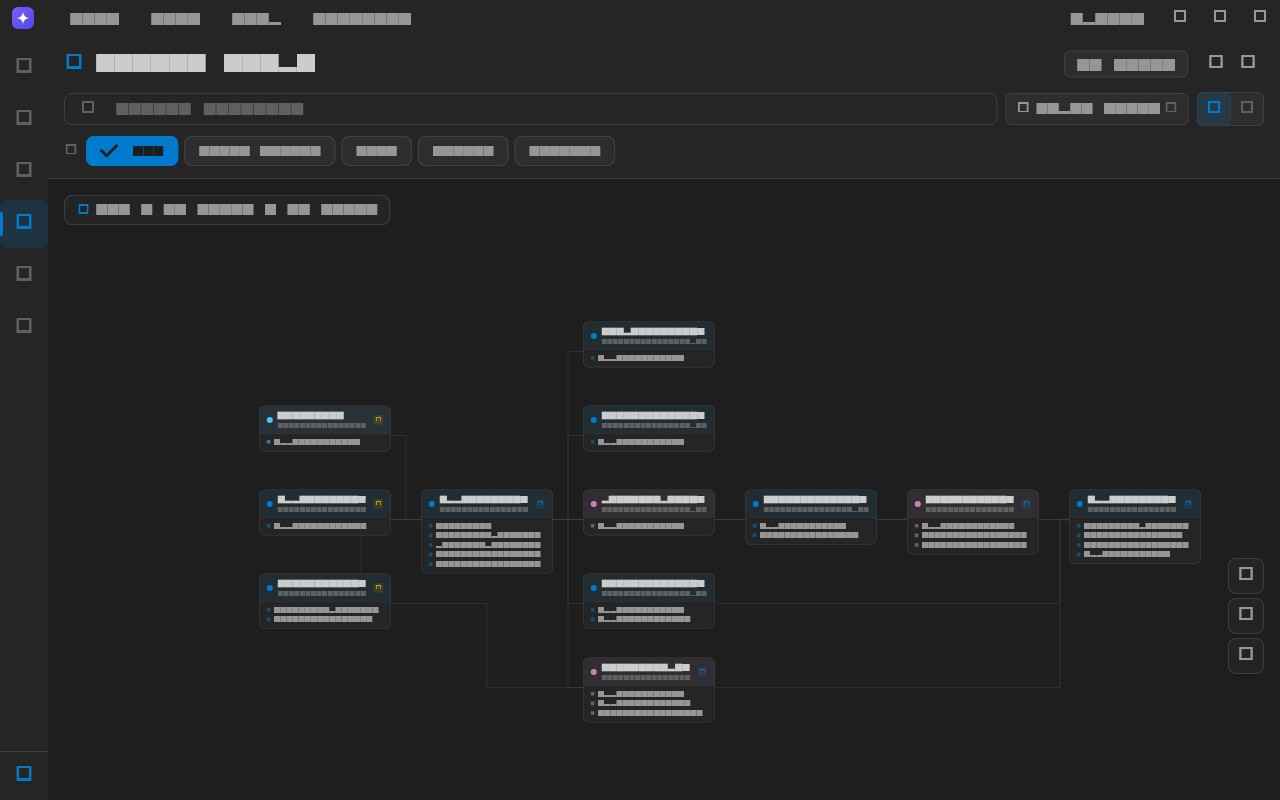
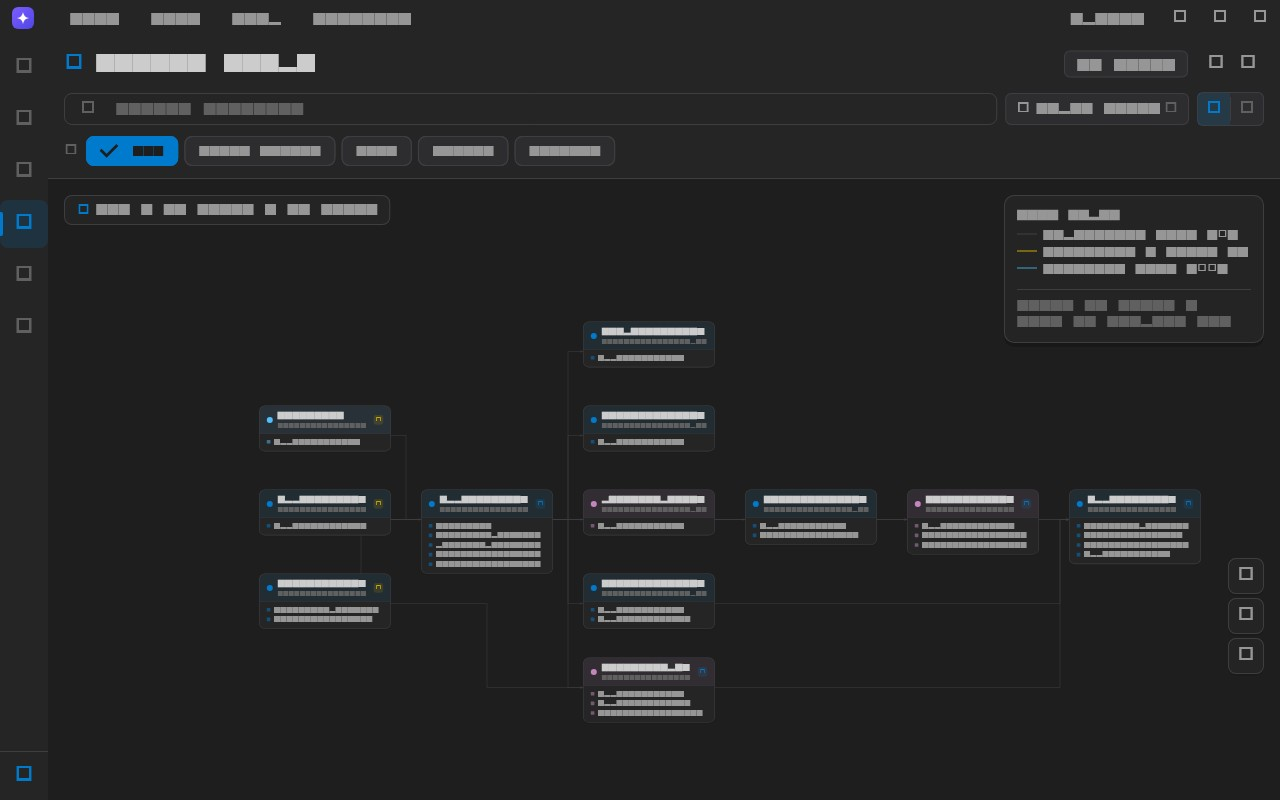
feat: neural mesh — stable info panel, edge legend, cluster-on-select
- Replace flickering badge tooltips (they were dismissed instantly by the
  hover-triggered rebuild) with a stable right-side info panel showing
  node details + an edge-color legend
- Edge colors now explained: grey=dependency flow, yellow=back-edge/cycle,
  blue=vertical link
- Cluster on select: clicking a card animates its connected neighbors into
  a ring around it (dim overlay kept, not too close); clicking away
  restores the original layout; reset cancels cleanly
- Tests: info panel legend present, background tap deselects

Changed region(s): [[0.7812, 0.25, 0.9688, 0.3438], [0.7812, 0.375, 0.9688, 0.4375]]

diff --git a/mobile/lib/features/graph/presentation/screens/graph_screen.dart b/mobile/lib/features/graph/presentation/screens/graph_screen.dart
@@ -39,7 +39,8 @@ class GraphScreen extends ConsumerStatefulWidget {
 
 enum GraphFacet { all, entryPoints, hubs, cycles, modules }
 
-class _GraphScreenState extends ConsumerState<GraphScreen> {
+class _GraphScreenState extends ConsumerState<GraphScreen>
+    with SingleTickerProviderStateMixin {
   bool _indexing = false;
   double _indexProgress = 0.0;
   final Map<String, Offset> _nodePositions = {};
@@ -57,8 +58,89 @@ class _GraphScreenState extends ConsumerState<GraphScreen> {
   Map<String, Rect> _moduleBands = {};
   DateTime? _lastBackgroundTap;
 
+  // Cluster-on-select: when a card is clicked, its connected neighbors glide
+  // into a ring around it so they're all visible together (dim overlay kept).
+  // Clicking away animates everything back to the original layout.
+  Map<String, Offset> _originalPositions = {};
+  Map<String, Offset> _clusterTargets = {};
+  bool _isClustered = false;
+  late final AnimationController _clusterController;
+
+  @override
+  void initState() {
+    super.initState();
+    _clusterController = AnimationController(
+      vsync: this,
+      duration: const Duration(milliseconds: 350),
+    )..addListener(_animateClusterStep);
+  }
+
+  void _animateClusterStep() {
+    final t = Curves.easeInOut.transform(_clusterController.value);
+    if (!_isClustered) {
+      // Animating back to original layout
+      for (final entry in _clusterTargets.entries) {
+        final from = _nodePositions[entry.key];
+        final to = _originalPositions[entry.key];
+        if (from == null || to == null) continue;
+        _nodePositions[entry.key] = Offset.lerp(from, to, t)!;
+      }
+    } else {
+      // Animating toward the ring
+      for (final entry in _clusterTargets.entries) {
+        final from = _originalPositions[entry.key];
+        final to = _clusterTargets[entry.key];
+        if (from == null || to == null) continue;
+        _nodePositions[entry.key] = Offset.lerp(from, to, t)!;
+      }
+    }
+    setState(() {});
+  }
+
+  /// Build a ring of the selected node + its connected neighbors. Targets are
+  /// computed once so re-triggering is smooth.
+  void _buildClusterTargets(String selectedPath, List<Map<String, dynamic>> edges) {
+    final neighbors = <String>{selectedPath};
+    for (final e in edges) {
+      if (e['from'] == selectedPath) neighbors.add(e['to'] as String);
+      if (e['to'] == selectedPath) neighbors.add(e['from'] as String);
+    }
+
+    _originalPositions = Map.of(_nodePositions);
+    final selectedPos = _originalPositions[selectedPath];
+    if (selectedPos == null) return;
+
+    final center = Offset(selectedPos.dx + 110, selectedPos.dy + 40);
+    const radius = 170.0;
+    final ring = neighbors.where((n) => n != selectedPath).toList();
+    _clusterTargets[selectedPath] = selectedPos;
+
+    for (var i = 0; i < ring.length; i++) {
+      final angle = (2 * math.pi * i / ring.length) - math.pi / 2;
+      final target = Offset(
+        center.dx + radius * math.cos(angle) - 110,
+        center.dy + radius * math.sin(angle) - 40,
+      );
+      _clusterTargets[ring[i]] = target;
+    }
+  }
+
+  void _startCluster(String selectedPath, List<Map<String, dynamic>> edges) {
+    if (_isClustered) return;
+    _buildClusterTargets(selectedPath, edges);
+    _isClustered = true;
+    _clusterController.forward(from: 0);
+  }
+
+  void _restoreLayout() {
+    if (!_isClustered) return;
+    _isClustered = false;
+    _clusterController.reverse();
+  }
+
   @override
   void dispose() {
+    _clusterController.dispose();
     _transformController.dispose();
     super.dispose();
   }
@@ -392,6 +474,7 @@ class _GraphScreenState extends ConsumerState<GraphScreen> {
                                           _selectedNode = null;
                                           _hoveredNode = null;
                                         });
+                                        _restoreLayout();
                                       }
                                     },
                                     child: const SizedBox.expand(),
@@ -444,10 +527,13 @@ class _GraphScreenState extends ConsumerState<GraphScreen> {
                                       edges: visibleEdges,
                                       allFiles: visibleFiles,
                                       projectPath: projectState.activeProject?.path ?? '',
-                                      onSelect: () => setState(() {
-                                        _selectedNode = file.path;
-                                        _hoveredNode = null;
-                                      }),
+                                      onSelect: () {
+                                        setState(() {
+                                          _selectedNode = file.path;
+                                          _hoveredNode = null;
+                                        });
+                                        _startCluster(file.path, visibleEdges);
+                                      },
                                        onHover: (hovering) {
                                          setState(() => _hoveredNode = hovering ? file.path : null);
                                        },
@@ -539,6 +625,18 @@ class _GraphScreenState extends ConsumerState<GraphScreen> {
                                 ),
                               ],
                             ),
+                          ),
+                        ),
+                        // Node info + edge legend panel (stable, top-right)
+                        Positioned(
+                          right: 16,
+                          top: 16,
+                          child: _NodeInfoPanel(
+                            node: _activeInfoNode(visibleFiles),
+                            entrySet: entrySet,
+                            hubSet: hubSet,
+                            cycleSet: cycleSet,
+                            connectedCount: _connectedCount(visibleEdges),
                           ),
                         ),
                       ],
@@ -643,6 +741,26 @@ class _GraphScreenState extends ConsumerState<GraphScreen> {
     final sortedKeys = groups.keys.toList()
       ..sort((a, b) => groups[b]!.length.compareTo(groups[a]!.length));
     return {for (final k in sortedKeys) k: groups[k]!};
+  }
+
+  /// The node currently under the cursor, else the selected node.
+  IndexedFile? _activeInfoNode(List<IndexedFile> files) {
+    final path = _hoveredNode ?? _selectedNode;
+    if (path == null) return null;
+    for (final f in files) {
+      if (f.path == path) return f;
+    }
+    return null;
+  }
+
+  int _connectedCount(List<Map<String, dynamic>> edges) {
+    final path = _hoveredNode ?? _selectedNode;
+    if (path == null) return 0;
+    var count = 0;
+    for (final e in edges) {
+      if (e['from'] == path || e['to'] == path) count++;
+    }
+    return count;
   }
 
   String _getFileType(String path) {
@@ -1046,6 +1164,10 @@ class _GraphScreenState extends ConsumerState<GraphScreen> {
   }
 
   void _resetLayout() {
+    _clusterController.stop();
+    _isClustered = false;
+    _originalPositions = {};
+    _clusterTargets = {};
     _transformController.value = Matrix4.identity();
     setState(() {
       _nodePositions.clear();
@@ -1498,17 +1620,136 @@ class _BadgeChip extends StatelessWidget {
       _ => (Icons.circle, AppColors.textMuted, badge),
     };
 
-    return Tooltip(
-      message: tooltip,
-      child: Container(
-        width: 16,
-        height: 16,
-        decoration: BoxDecoration(
-          color: color.withValues(alpha: 0.15),
-          borderRadius: BorderRadius.circular(4),
-        ),
-        child: Icon(icon, size: 10, color: color),
+    // NOTE: no Tooltip here. Tooltips inside a self-rebuilding node tree get
+    // dismissed the moment hover triggers a rebuild (they flash and vanish).
+    // Badge meanings are shown in the stable right-side _NodeInfoPanel instead.
+    return Container(
+      width: 16,
+      height: 16,
+      decoration: BoxDecoration(
+        color: color.withValues(alpha: 0.15),
+        borderRadius: BorderRadius.circular(4),
       ),
+      child: Icon(icon, size: 10, color: color),
+    );
+  }
+}
+
+// ==================== NODE INFO PANEL ====================
+
+class _NodeInfoPanel extends StatelessWidget {
+  final IndexedFile? node;
+  final Set<String> entrySet;
+  final Set<String> hubSet;
+  final Set<String> cycleSet;
+  final int connectedCount;
+
+  const _NodeInfoPanel({
+    required this.node,
+    required this.entrySet,
+    required this.hubSet,
+    required this.cycleSet,
+    required this.connectedCount,
+  });
+
+  @override
+  Widget build(BuildContext context) {
+    final n = node;
+    return Container(
+      width: 260,
+      padding: const EdgeInsets.all(12),
+      decoration: BoxDecoration(
+        color: AppColors.surface.withValues(alpha: 0.95),
+        borderRadius: BorderRadius.circular(10),
+        border: Border.all(color: AppColors.border),
+        boxShadow: [
+          BoxShadow(
+            color: Colors.black.withValues(alpha: 0.2),
+            blurRadius: 12,
+            offset: const Offset(0, 4),
+          ),
+        ],
+      ),
+      child: Column(
+        crossAxisAlignment: CrossAxisAlignment.start,
+        mainAxisSize: MainAxisSize.min,
+        children: [
+          const Text('Edge Types',
+              style: TextStyle(fontSize: 10, fontWeight: FontWeight.w600, color: AppColors.textSecondary)),
+          const SizedBox(height: 6),
+          _legendRow(AppColors.border.withValues(alpha: 0.55), 'Dependency flow (→)'),
+          _legendRow(AppColors.warning.withValues(alpha: 0.5), 'Back-edge / cycle (←)'),
+          _legendRow(AppColors.info.withValues(alpha: 0.4), 'Vertical link (↑↓)'),
+          const SizedBox(height: 10),
+          const Divider(height: 1),
+          const SizedBox(height: 8),
+          if (n == null) ...[
+            const Text('Hover or click a card to inspect it.',
+                style: TextStyle(color: AppColors.textMuted, fontSize: 11)),
+          ] else ...[
+            Text(p.basename(n.path),
+                style: const TextStyle(color: AppColors.textPrimary, fontSize: 13, fontWeight: FontWeight.w600)),
+            Text(p.dirname(n.path),
+                style: const TextStyle(color: AppColors.textMuted, fontSize: 10),
+                maxLines: 1,
+                overflow: TextOverflow.ellipsis),
+            const SizedBox(height: 6),
+            Wrap(
+              spacing: 4,
+              runSpacing: 4,
+              children: [
+                if (n.loc > 0)
+                  _chip('${n.loc} lines', AppColors.textSecondary),
+                if (entrySet.contains(n.path))
+                  _chip('Entry point', AppColors.warning),
+                if (hubSet.contains(n.path))
+                  _chip('Hub', AppColors.primary),
+                if (cycleSet.contains(n.path))
+                  _chip('In cycle', AppColors.error),
+                if (connectedCount > 0)
+                  _chip('$connectedCount links', AppColors.info),
+              ],
+            ),
+          ],
+        ],
+      ),
+    );
+  }
+
+  Widget _legendRow(Color color, String label) {
+    return Padding(
+      padding: const EdgeInsets.only(bottom: 3),
+      child: Row(
+        mainAxisSize: MainAxisSize.min,
+        children: [
+          Container(
+            width: 20,
+            height: 0,
+            decoration: BoxDecoration(
+              border: Border(bottom: BorderSide(color: color, width: 2)),
+            ),
+          ),
+          const SizedBox(width: 6),
+          Flexible(
+            child: Text(label,
+                style: const TextStyle(fontSize: 10, color: AppColors.textSecondary),
+                overflow: TextOverflow.ellipsis),
+          ),
+        ],
+      ),
+    );
+  }
+
+  Widget _chip(String label, Color color) {
+    return Container(
+      padding: const EdgeInsets.symmetric(horizontal: 6, vertical: 2),
+      decoration: BoxDecoration(
+        color: color.withValues(alpha: 0.12),
+        borderRadius: BorderRadius.circular(4),
+        border: Border.all(color: color.withValues(alpha: 0.4)),
+      ),
+      child: Text(label,
+          style: TextStyle(fontSize: 9, color: color, fontWeight: FontWeight.w600)),
     );
   }
 }

diff --git a/mobile/test/screenshots/screenshots_test.dart b/mobile/test/screenshots/screenshots_test.dart
@@ -213,6 +213,19 @@ void main() {
         reason: 'background tap must not leave a selection');
   });
 
+  testWidgets('05c - info panel is present with edge legend', (tester) async {
+    final container = await _buildContainer();
+    await _pumpApp(tester, container);
+    container.read(navigationProvider.notifier).setMode(AppMode.graph);
+    await tester.pumpAndSettle(const Duration(milliseconds: 500));
+
+    // The stable info panel (replaces flickering tooltips) shows the legend
+    expect(find.text('Edge Types'), findsOneWidget);
+    expect(find.text('Dependency flow (→)'), findsOneWidget);
+    expect(find.text('Back-edge / cycle (←)'), findsOneWidget);
+    expect(find.text('Vertical link (↑↓)'), findsOneWidget);
+  });
+
   testWidgets('06 - review (findings)', (tester) async {
     final container = await _buildContainer();
     await _pumpApp(tester, container);
